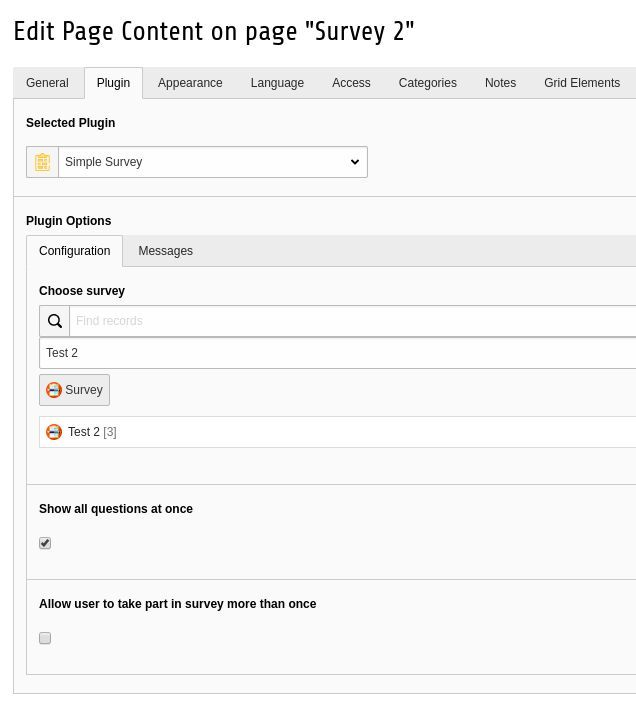
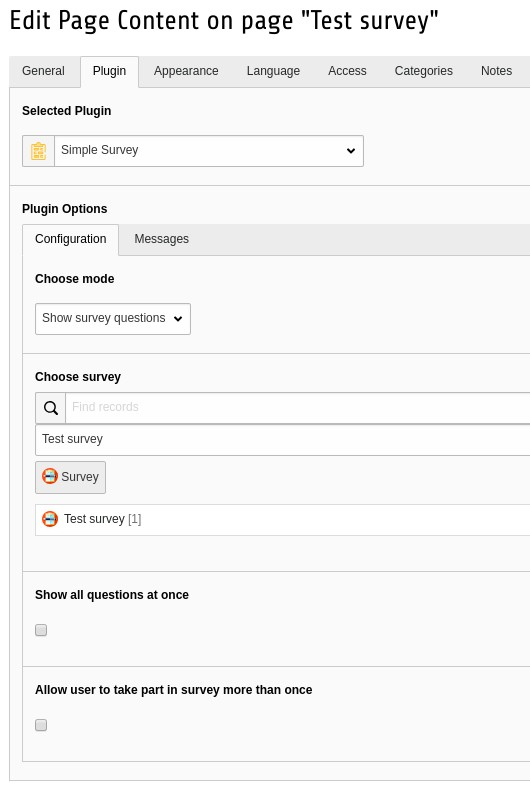
[TASK] update docs

diff --git a/Documentation/EditorManual/Index.rst b/Documentation/EditorManual/Index.rst
@@ -104,6 +104,7 @@ Add plugin with survey on a page
 
 - Create a new Content Element **Plugins -> Simple survey**
 - In plugin settings window **choose Survey from storage folder**
+- Choose plugin mode, either "show survey" or "survey results".
 - It is possible to show all question at once or do survey step by step, depends on **"Show all questions at once" checkbox**
 - Enable or disable multiple participation in survey , depends on **"Allow user to take part in survey more than once" checkbox**
 - Enter custom message that is displayed after user has finished survey

diff --git a/README.MD b/README.MD
@@ -30,6 +30,7 @@
 * Create page that'll contain plugin
 * Add new content element, go to "Plugins" tab and choose "Simple survey"
     * Choose survey from storage
+    * Choose plugin mode, either "show survey" or "survey results".
     * Mark checkbox in case you want to show all questions at once
     * Allow/Disallow user to take part in survey more than once
     * Add message displayed when user has finished survey
